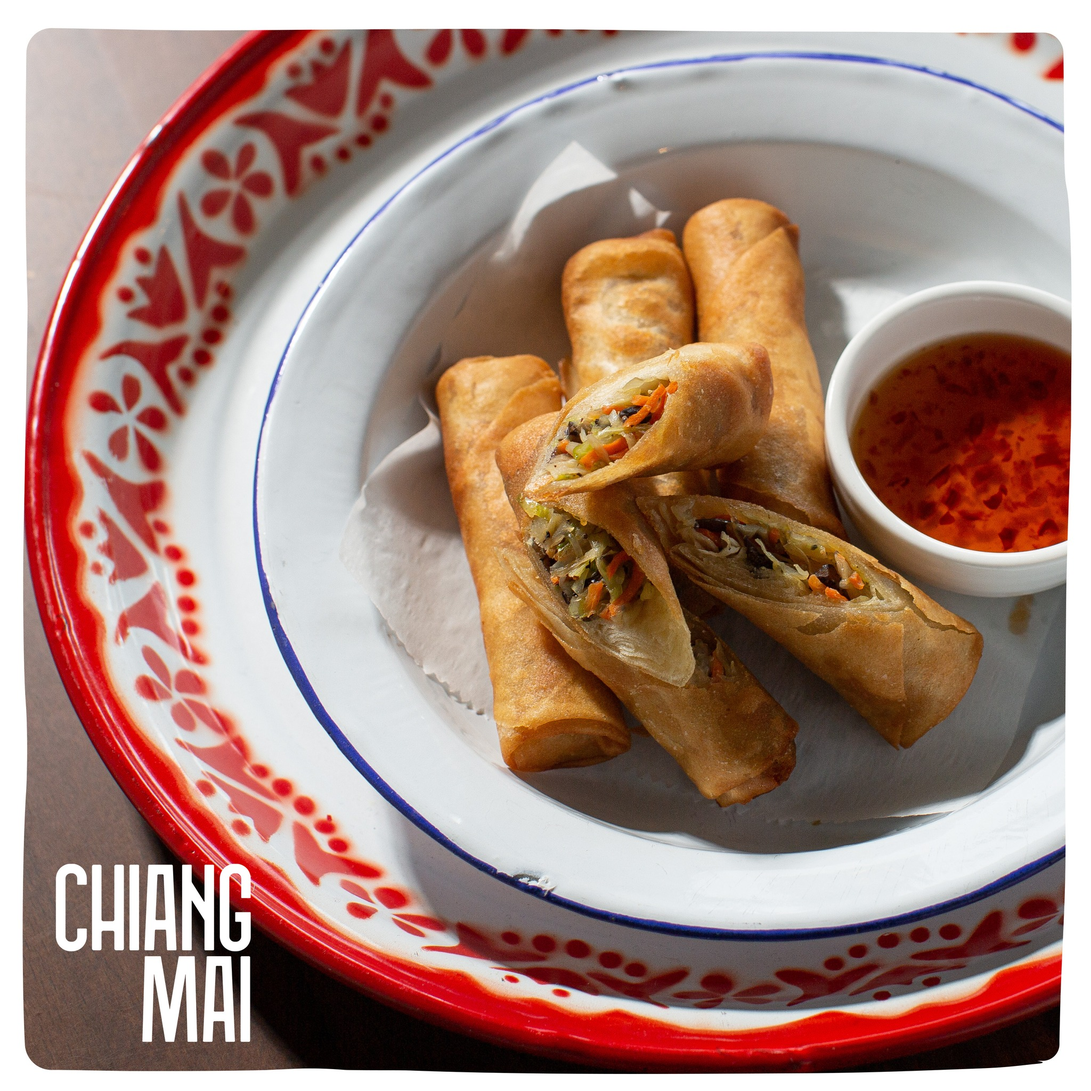
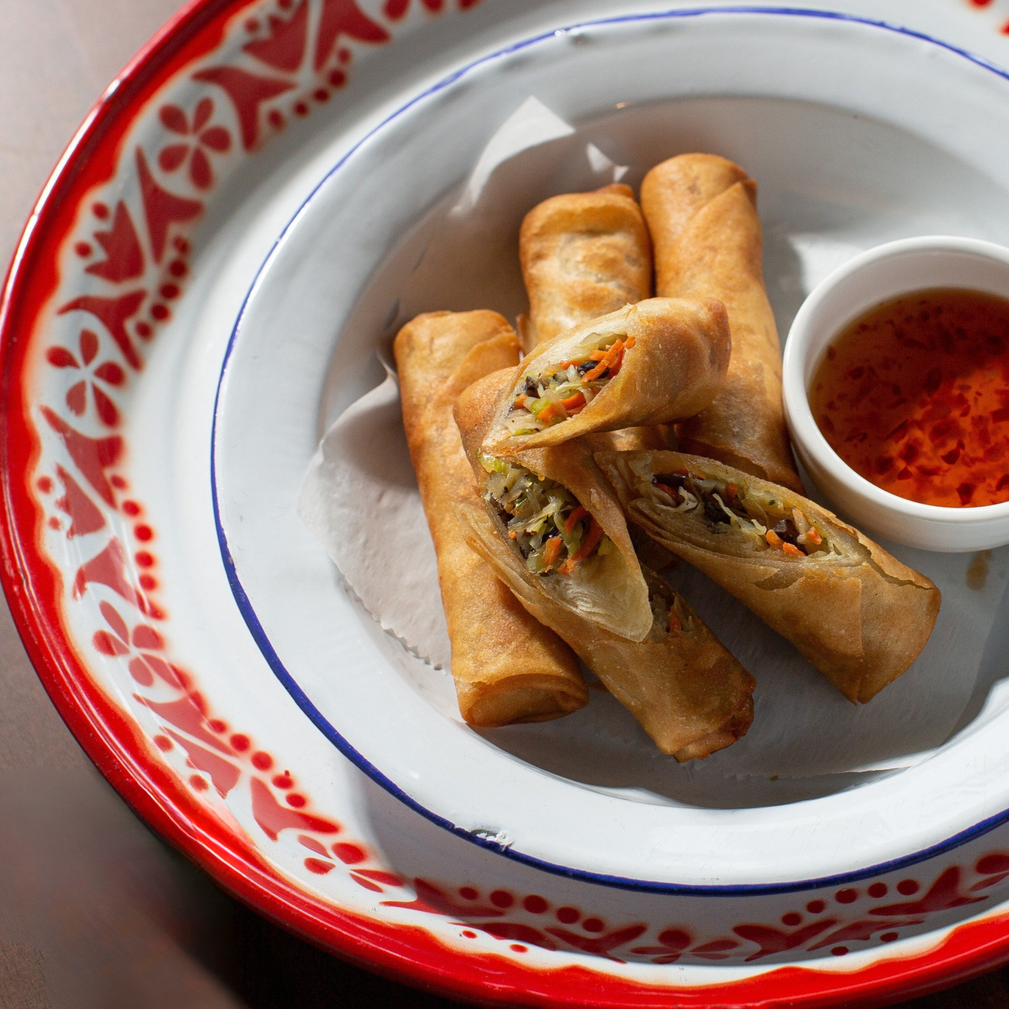
style: footer

diff --git a/src/components/site-footer.tsx b/src/components/site-footer.tsx
@@ -1,5 +1,5 @@
-const stitchImages = {
-  map: '/stitch/stitch-image-07.jpg',
+const assets = {
+  map: '/assets/map.png',
 }
 
 export function SiteFooter() {
@@ -9,7 +9,7 @@ export function SiteFooter() {
         <div className="mb-16 grid grid-cols-1 gap-12 md:grid-cols-2 lg:grid-cols-4">
           <div className="min-h-[200px] overflow-hidden rounded-xl border border-border/30 shadow-lg">
             <img
-              src={stitchImages.map}
+              src={assets.map}
               alt="Map location"
               className="h-full w-full object-cover"
               loading="lazy"
@@ -18,8 +18,7 @@ export function SiteFooter() {
           <div>
             <h4 className="mb-6 text-xl font-bold text-primary">Address</h4>
             <p className="leading-relaxed text-muted-foreground">
-              96 East Central Park Road,<br />
-              New York, USA
+              8158 Big Bend Blvd Webster Groves, MO 63119
             </p>
           </div>
           <div>
@@ -33,17 +32,11 @@ export function SiteFooter() {
           <div>
             <h4 className="mb-6 text-xl font-bold text-primary">Contact Us</h4>
             <ul className="space-y-4 text-muted-foreground">
-              <li className="font-medium text-foreground">+198-0183792</li>
-              <li>
-                <a className="transition-colors hover:text-primary" href="mailto:Oliva@Contact.Com">
-                  Oliva@Contact.Com
-                </a>
-              </li>
+              <li className="font-medium text-foreground">(314) 961-8889</li>
             </ul>
           </div>
         </div>
-        <div className="flex flex-col items-center justify-between gap-6 border-t border-border/20 pt-8 md:flex-row">
-          <p className="text-sm text-muted-foreground">© Copyright 2020 Powered By WPDEVELOPER</p>
+        <div className="flex flex-col items-center justify-center gap-6 border-t border-border/20 pt-8 md:flex-row">
           <div className="flex items-center gap-4">
             <a
               className="flex h-10 w-10 items-center justify-center rounded-full bg-foreground text-background transition-colors hover:bg-primary"
@@ -52,35 +45,6 @@ export function SiteFooter() {
             >
               <svg className="h-5 w-5" fill="currentColor" viewBox="0 0 24 24">
                 <path d="M22 12c0-5.52-4.48-10-10-10S2 6.48 2 12c0 4.84 3.44 8.87 8 9.8V15H8v-3h2V9.5C10 7.57 11.57 6 13.5 6H16v3h-2c-.55 0-1 .45-1 1v2h3v3h-3v6.95c5.05-.5 9-4.76 9-9.95z" />
-              </svg>
-            </a>
-            <a
-              className="flex h-10 w-10 items-center justify-center rounded-full bg-foreground text-background transition-colors hover:bg-primary"
-              href="#"
-              aria-label="Twitter"
-            >
-              <svg className="h-5 w-5" fill="currentColor" viewBox="0 0 24 24">
-                <path d="M23 3a10.9 10.9 0 0 1-3.14 1.53 4.48 4.48 0 0 0-7.86 3v1A10.66 10.66 0 0 1 3 4s-4 9 5 13a11.64 11.64 0 0 1-7 2c9 5 20 0 20-11.5a4.5 4.5 0 0 0-.08-.83A7.72 7.72 0 0 0 23 3z" />
-              </svg>
-            </a>
-            <a
-              className="flex h-10 w-10 items-center justify-center rounded-full bg-foreground text-background transition-colors hover:bg-primary"
-              href="#"
-              aria-label="LinkedIn"
-            >
-              <svg className="h-5 w-5" fill="currentColor" viewBox="0 0 24 24">
-                <path d="M16 8a6 6 0 0 1 6 6v7h-4v-7a2 2 0 0 0-2-2 2 2 0 0 0-2 2v7h-4v-7a6 6 0 0 1 6-6z" />
-                <circle cx="4" cy="4" r="2" />
-                <path d="M2 9h4v12H2z" />
-              </svg>
-            </a>
-            <a
-              className="flex h-10 w-10 items-center justify-center rounded-full bg-foreground text-background transition-colors hover:bg-primary"
-              href="#"
-              aria-label="YouTube"
-            >
-              <svg className="h-5 w-5" fill="currentColor" viewBox="0 0 24 24">
-                <path d="M19.615 3.184c-3.604-.246-11.631-.245-15.23 0-3.897.266-4.356 2.62-4.385 8.816.029 6.185.484 8.549 4.385 8.816 3.6.245 11.626.246 15.23 0 3.897-.266 4.356-2.62 4.385-8.816-.029-6.185-.484-8.549-4.385-8.816zm-10.615 12.816v-8l8 4-8 4z" />
               </svg>
             </a>
           </div>

diff --git a/src/pages/GalleryPage.tsx b/src/pages/GalleryPage.tsx
@@ -19,7 +19,7 @@ const galleryItems = [
   },
   {
     label: 'Gai Todd',
-    image: '/assets/small_plates/Gai Todd.jpg',
+    image: '/assets/small_plates/Gai Todd.png',
     category: 'Small Plates',
     cardSize: 'w-[300px] h-[300px] md:h-[500px] md:w-[500px]',
   },
